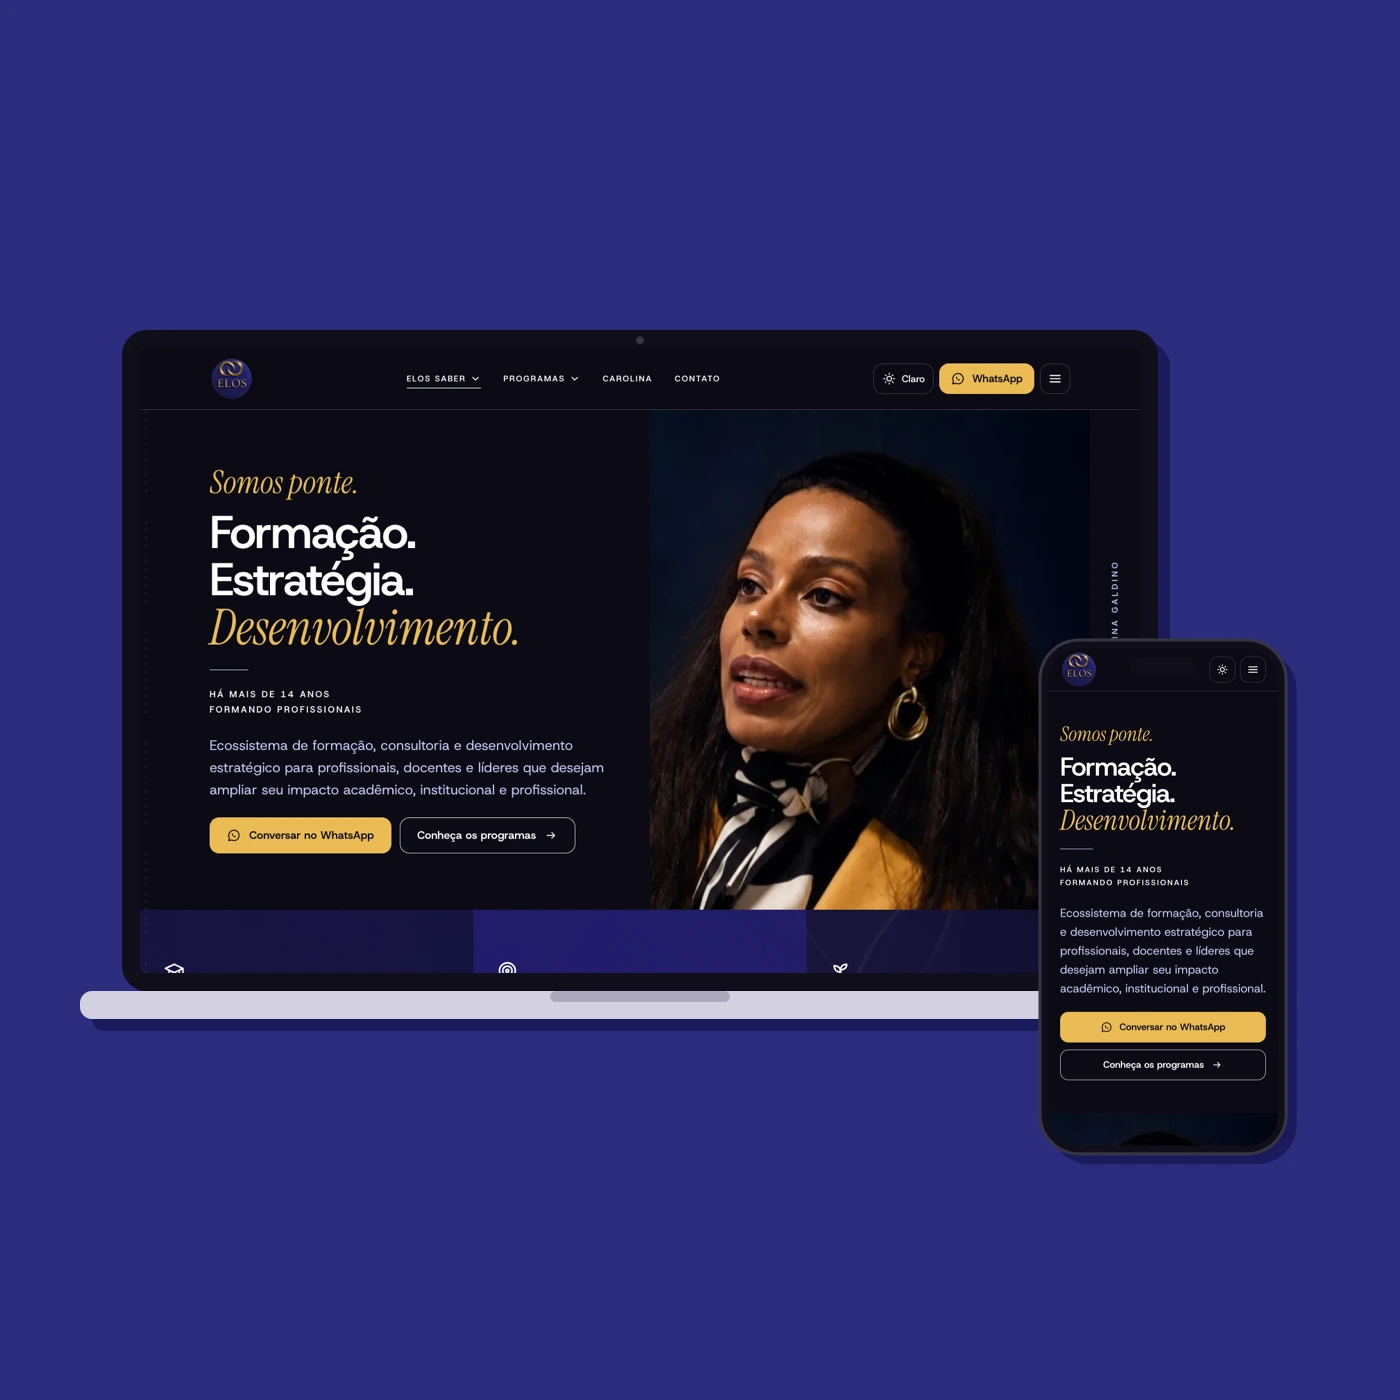
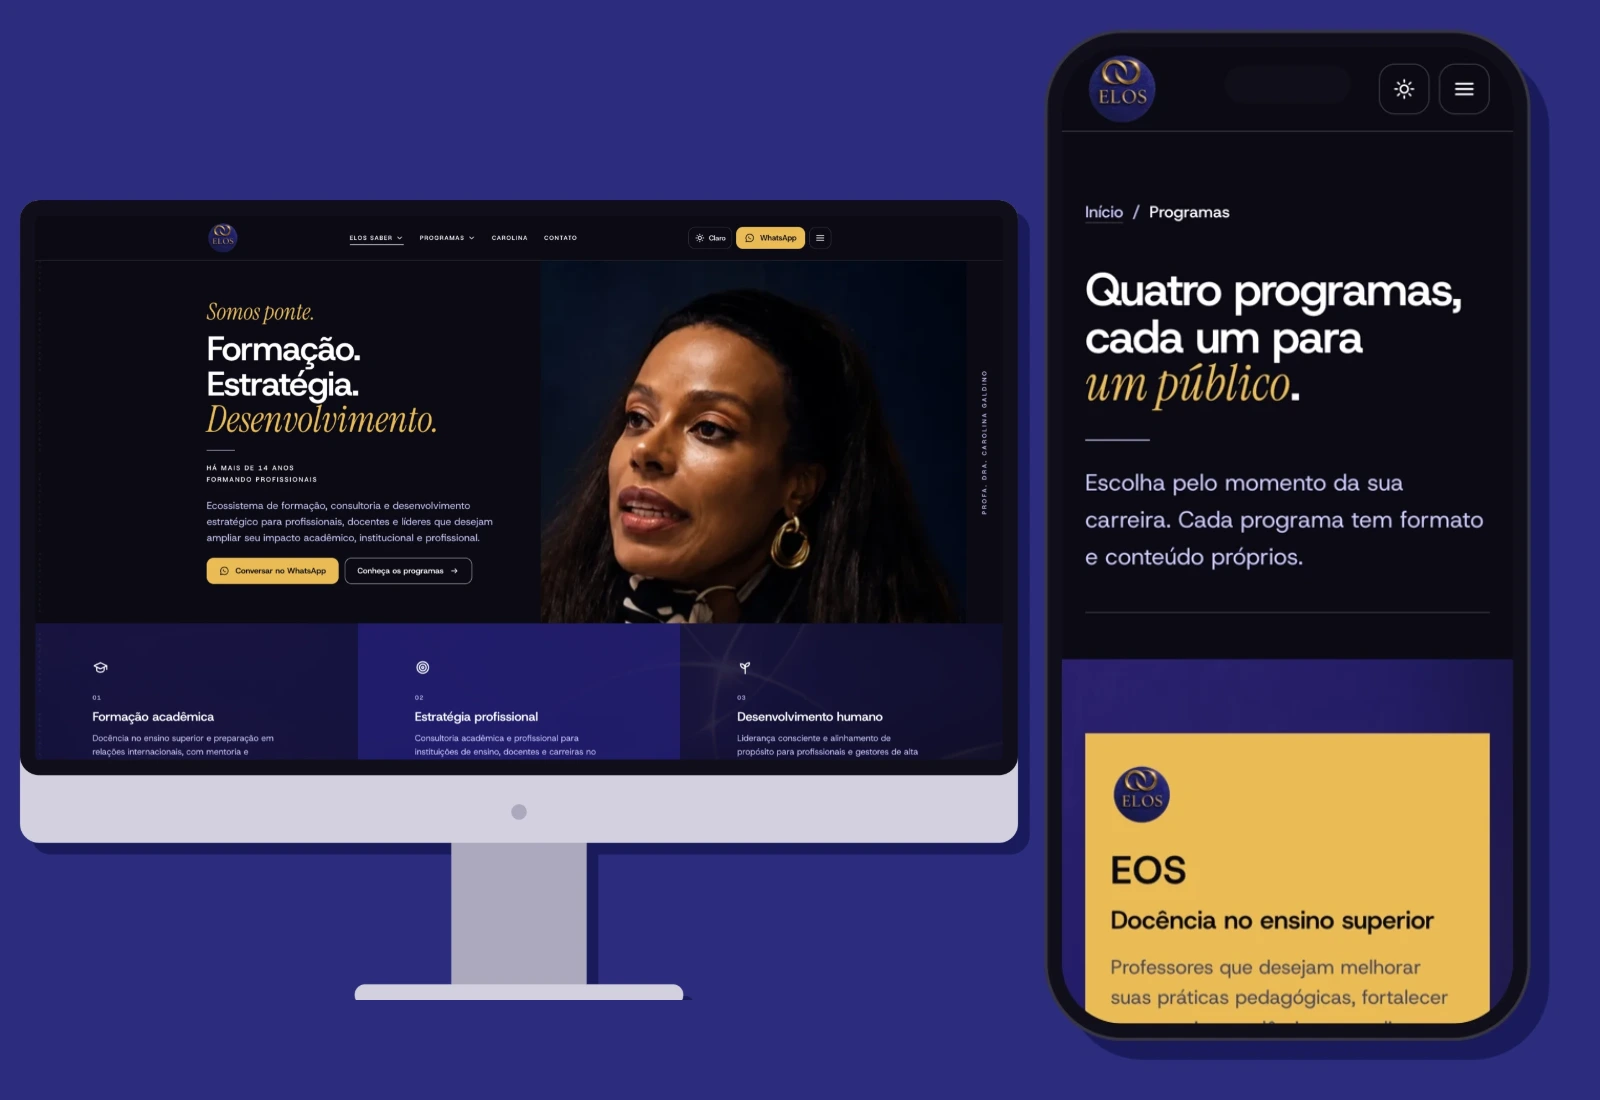
Elos Saber: hero com mockup desktop e celular na altura do card

diff --git a/public/cases/elos-saber.html b/public/cases/elos-saber.html
@@ -39,7 +39,7 @@
     </nav>
   </header>
 <div class="voltar"><a class="btn btn--ghost" href="/cases">← Voltar aos cases</a></div>
-  <section class="card caso-hero" id="topo"><div class="cab"><div class="cab-linha"><div class="cab-tit"><span class="mono tag-ouro">Website · Design de interface · Design system · Código</span><h1 class="disp">Elos Saber</h1></div></div><p class="mono" style="color:var(--hl-text)">elossaber.com.br</p><p class="intro">Site da Elos Saber, ecossistema de formação, consultoria e desenvolvimento da Profa. Dra. Carolina Galdino, doutora em Relações Internacionais. Quatro programas, uma voz de marca e um site que a própria equipe consegue manter.</p><div class="acoes"></div></div><img src="/assets/cases/elos-saber/hero-mockup.webp" alt=""></section>
+  <section class="card caso-hero caso-hero--wide" id="topo"><div class="cab"><div class="cab-linha"><div class="cab-tit"><span class="mono tag-ouro">Website · Design de interface · Design system · Código</span><h1 class="disp">Elos Saber</h1></div></div><p class="mono" style="color:var(--hl-text)">elossaber.com.br</p><p class="intro">Site da Elos Saber, ecossistema de formação, consultoria e desenvolvimento da Profa. Dra. Carolina Galdino, doutora em Relações Internacionais. Quatro programas, uma voz de marca e um site que a própria equipe consegue manter.</p><div class="acoes"></div></div><img src="/assets/cases/elos-saber/hero-mockup.webp" alt=""></section>
     <div class="card ficha-linha"><div><span class="mono">Cliente</span><b>Carolina Galdino · Elos Saber</b></div><div><span class="mono">Entregas</span><b>Design system, logo em vetor, manual de marca, site de 10 páginas</b></div><div><span class="mono">Ano</span><b>2026</b></div><div><span class="mono">Papel</span><b>Design, front-end e publicação</b></div><div><span class="mono">No ar</span><b>elossaber.com.br</b></div></div>
   <section class="secao-par"><div class="card bloco secao"><span class="mono tag-ouro">Sobre o site</span><h2>Quatro programas, um ponto de entrada.</h2><p>A home abre com “Somos ponte” e leva à conversa no WhatsApp, o caminho de venda. Tema escuro ou claro, à escolha do visitante.</p></div><div class="midia-cards"><div class="card midia-card"><img src="/assets/cases/elos-saber/tela-laptop-home.webp" alt="" loading="lazy"></div></div></section>
   <section class="secao-par inv"><div class="card bloco secao"><span class="mono tag-ouro">Programas</span><h2>Uma página para escolher.</h2><p>Os quatro programas lado a lado, cada um com sua cor de ficha e um caminho direto para o contato.</p></div><div class="midia-cards"><div class="card midia-card"><img src="/assets/cases/elos-saber/tela-laptop-programas.webp" alt="" loading="lazy"></div></div></section>

diff --git a/public/en/cases/elos-saber.html b/public/en/cases/elos-saber.html
@@ -39,7 +39,7 @@
     </nav>
   </header>
 <div class="voltar"><a class="btn btn--ghost" href="/en/cases">← Back to cases</a></div>
-  <section class="card caso-hero" id="topo"><div class="cab"><div class="cab-linha"><div class="cab-tit"><span class="mono tag-ouro">Website · Interface design · Design system · Code</span><h1 class="disp">Elos Saber</h1></div></div><p class="mono" style="color:var(--hl-text)">elossaber.com.br</p><p class="intro">Website for Elos Saber, the training, consulting and development practice of Prof. Dr. Carolina Galdino, a doctor in International Relations. Four programmes, one brand voice, and a site her own team can keep up.</p><div class="acoes"></div></div><img src="/assets/cases/elos-saber/hero-mockup.webp" alt=""></section>
+  <section class="card caso-hero caso-hero--wide" id="topo"><div class="cab"><div class="cab-linha"><div class="cab-tit"><span class="mono tag-ouro">Website · Interface design · Design system · Code</span><h1 class="disp">Elos Saber</h1></div></div><p class="mono" style="color:var(--hl-text)">elossaber.com.br</p><p class="intro">Website for Elos Saber, the training, consulting and development practice of Prof. Dr. Carolina Galdino, a doctor in International Relations. Four programmes, one brand voice, and a site her own team can keep up.</p><div class="acoes"></div></div><img src="/assets/cases/elos-saber/hero-mockup.webp" alt=""></section>
     <div class="card ficha-linha"><div><span class="mono">Client</span><b>Carolina Galdino · Elos Saber</b></div><div><span class="mono">Deliverables</span><b>Design system, vector logo, brand manual, 10-page website</b></div><div><span class="mono">Year</span><b>2026</b></div><div><span class="mono">Role</span><b>Design, front-end and publishing</b></div><div><span class="mono">Live</span><b>elossaber.com.br</b></div></div>
   <section class="secao-par"><div class="card bloco secao"><span class="mono tag-ouro">About the site</span><h2>Four programmes, one way in.</h2><p>The home page opens with “Somos ponte” and leads to a WhatsApp conversation, where sales happen. Dark or light theme, chosen by the visitor.</p></div><div class="midia-cards"><div class="card midia-card"><img src="/assets/cases/elos-saber/tela-laptop-home.webp" alt="" loading="lazy"></div></div></section>
   <section class="secao-par inv"><div class="card bloco secao"><span class="mono tag-ouro">Programmes</span><h2>One page to choose from.</h2><p>The four programmes side by side, each with its own fact sheet colour and a direct path to contact.</p></div><div class="midia-cards"><div class="card midia-card"><img src="/assets/cases/elos-saber/tela-laptop-programas.webp" alt="" loading="lazy"></div></div></section>

diff --git a/public/ds-v2/paginas.css b/public/ds-v2/paginas.css
@@ -161,3 +161,7 @@
 .midia-cards{display:grid;gap:var(--gap);align-content:start}
 .midia-card{padding:clamp(10px,1.4vw,18px);align-items:stretch}
 .midia-card img{width:100%;height:auto;display:block;border:0;border-radius:calc(var(--r-card) - 6px)}
+
+.caso-hero--wide{grid-template-columns:minmax(0,5fr) minmax(0,7fr)}
+.caso-hero--wide>img{aspect-ratio:16/11;object-fit:cover}
+@media (max-width:960px){.caso-hero--wide{grid-template-columns:1fr}}
